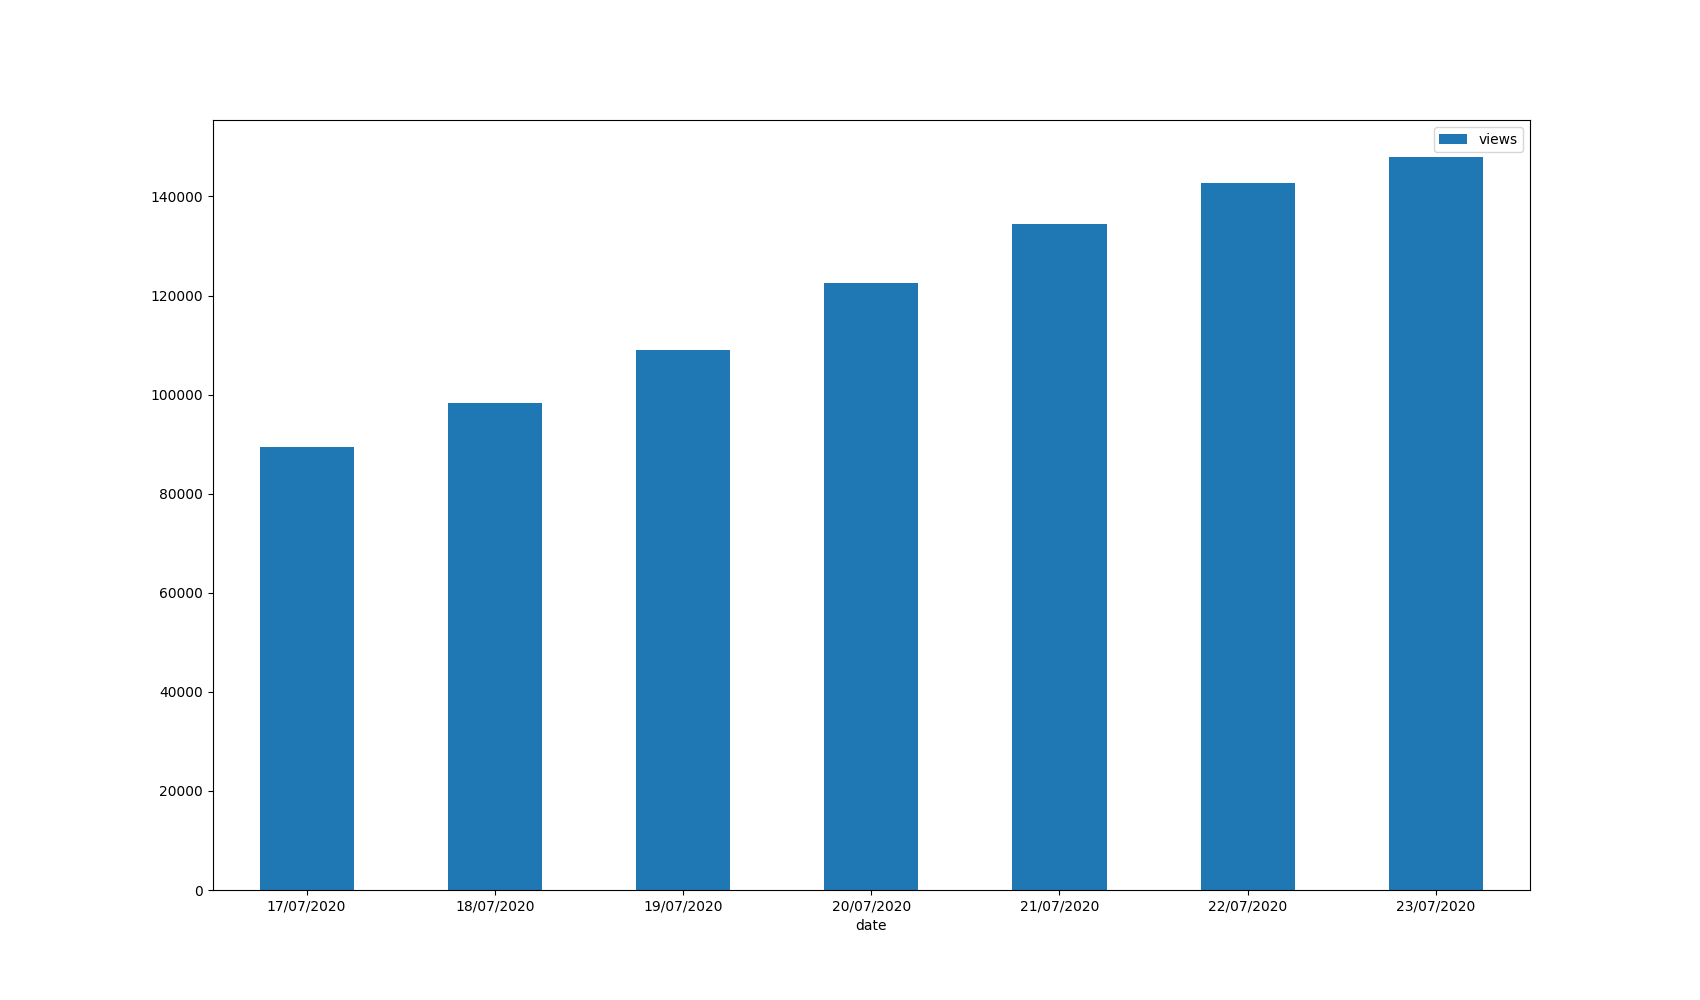
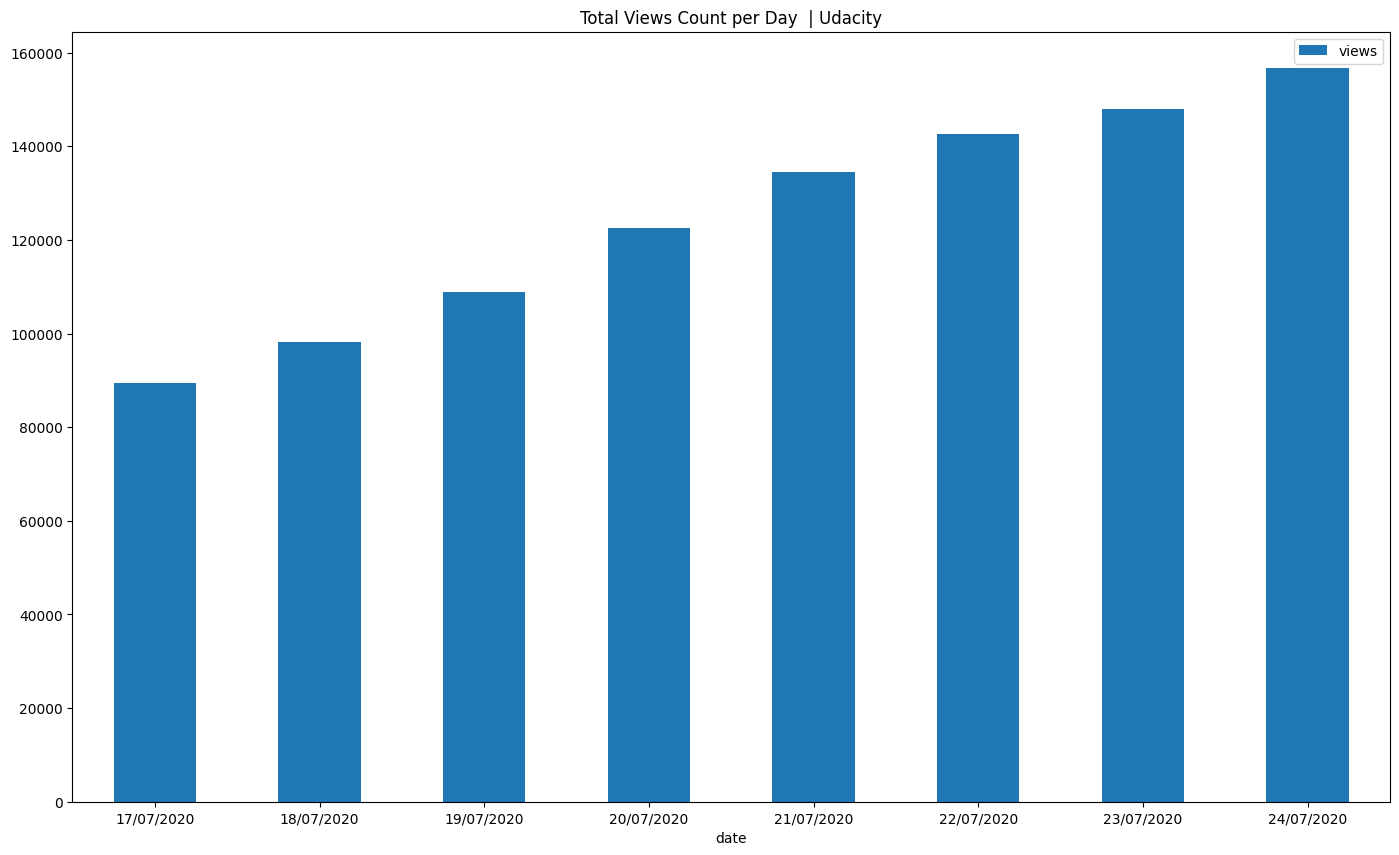
docs: update for day 10

diff --git a/youtube_statistics/day_by_day_stats.py b/youtube_statistics/day_by_day_stats.py
@@ -24,7 +24,8 @@ FIG_NAME = os.path.join(PLOT_DIR, str(PLOT_NUMBER)+'-totalViewOnDayByDay.png')
 print(FIG_NAME)
 sumDf = totalViewOnDayByDay(df)
 sumDf.plot(kind='bar', figsize=(17, 10),  rot=0)
-plt.savefig(FIG_NAME)
+plt.title("Total Views Count per Day  | Udacity")
+plt.savefig(FIG_NAME, bbox_inches='tight')
 # plt.show()
 
 
@@ -61,11 +62,11 @@ print(df.head())
 df_pivoted = df.pivot(index='lesson', columns='date', values='views')
 
 df_pivoted.plot(kind='bar', figsize=(40, 10), color=colors, rot=0, width=0.7,align='center')
-plt.title("Historical Count of Views: Day by Day Comparison | Udacity", y=1.513, fontsize=22)
+plt.title("Historical Count of Views: Day by Day Comparison | Udacity")
 plt.xlabel("Lessons", labelpad=16)
 plt.ylabel("Count", labelpad=16)
 
 FIG_NAME = os.path.join(PLOT_DIR, 'Historical-'+str(PLOT_NUMBER)+'.png')
-plt.savefig(FIG_NAME, dpi=300)
+plt.savefig(FIG_NAME, dpi=300, bbox_inches='tight')
 plt.show()
 #

diff --git a/README.md b/README.md
@@ -94,8 +94,10 @@
  
  
 ##### 24, July 2020
-- D12: L3 upto 30
+- D12: L3 upto 30 (Ensemble Learning)
 - Created new plots based on historical data collected through daily stats
+- Total Counf of Views On Each Day (Not accurate as I am still on 3rd lesson)
+      ![Kick start meeting](youtube_statistics/screenshots/plots/24-07-2020-totalViewOnDayByDay.png)      
 - Historical Udacity Views Plot
       ![Kick start meeting](youtube_statistics/screenshots/plots/Historical-24-07-2020.png)      
 - Today's stats
